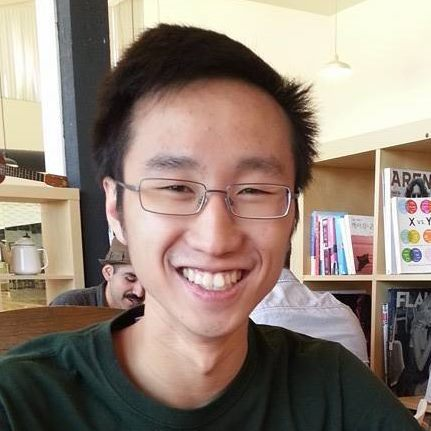
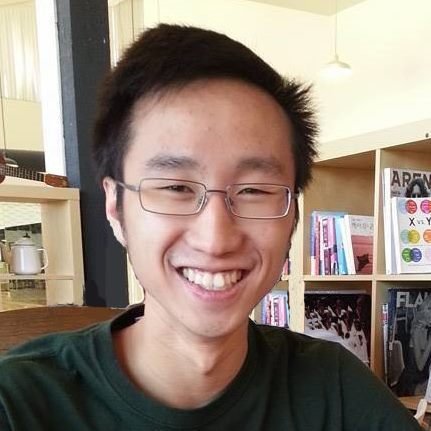
Finishing touches

Changed region(s): [[0.5731, 0.5731, 0.8445, 0.8144], [0.0905, 0.5128, 0.3619, 0.7239]]

diff --git a/poster.css b/poster.css
@@ -1,6 +1,6 @@
 @media print {
 	@page {
-		size: 36in 40in;
+		size: 35in 40in;
 	}
 	body {
 		box-shadow: none !important;
@@ -26,15 +26,25 @@ body {
 	margin: 3em auto;
 	box-shadow: 0 0 4em #666;
 	
-	width: 36in;
+	width: 35in;
 	height: 40in;
 	counter-reset: figure;
 	
 	background-color: #030306;
+}
+#background {
+	position: absolute;
+	left: 0;
+	right: 0;
+	bottom: 0;
+	top: 0;
+	
 	background-image: url(images/stellar_density_map.png);
 	background-size: 280%;
-	background-position: -47in 12in;
+	background-position: -46in 12in;
 	background-repeat: no-repeat;
+	-webkit-filter: blur(0.04in);
+	overflow: hidden;
 }
 
 h1, h2, h3, h4, h5, h6, header {
@@ -43,7 +53,7 @@ h1, h2, h3, h4, h5, h6, header {
 }
 
 header {
-	height: 3.8in;
+	height: 4in;
 	color: white;
 	text-align: center;
 	
@@ -78,9 +88,9 @@ main {
 	flex-flow: column wrap;
 	align-content: center;
 	justify-content: space-between;
-	padding: 1in 0 0.5in;
+	padding: 0.5in 0 0.5in;
 	position: absolute;
-	top: 3.8in;
+	top: 4in;
 	bottom: 0;
 	left: 0;
 	right: 0;

diff --git a/poster.html b/poster.html
@@ -61,7 +61,8 @@
 			</article>
 			
 			<article style="background: none; margin: 0 0.5em; color: rgba(255, 255, 255, 0.9); font-size: 0.8em; flex: 1">
-				<b>Below:</b> A star map generated from preliminary Gaia<br /> data. Source: ESA/Gaia (CC BY-SA 3.0 IGO).
+				<b>Below:</b> A star map generated from preliminary <i>Gaia</i> data.<br />
+				<span style="font-size: 0.8em">Image: ESA/Gaia (CC BY-SA 3.0 IGO)</span>
 			</article>
 			
 			<article>
